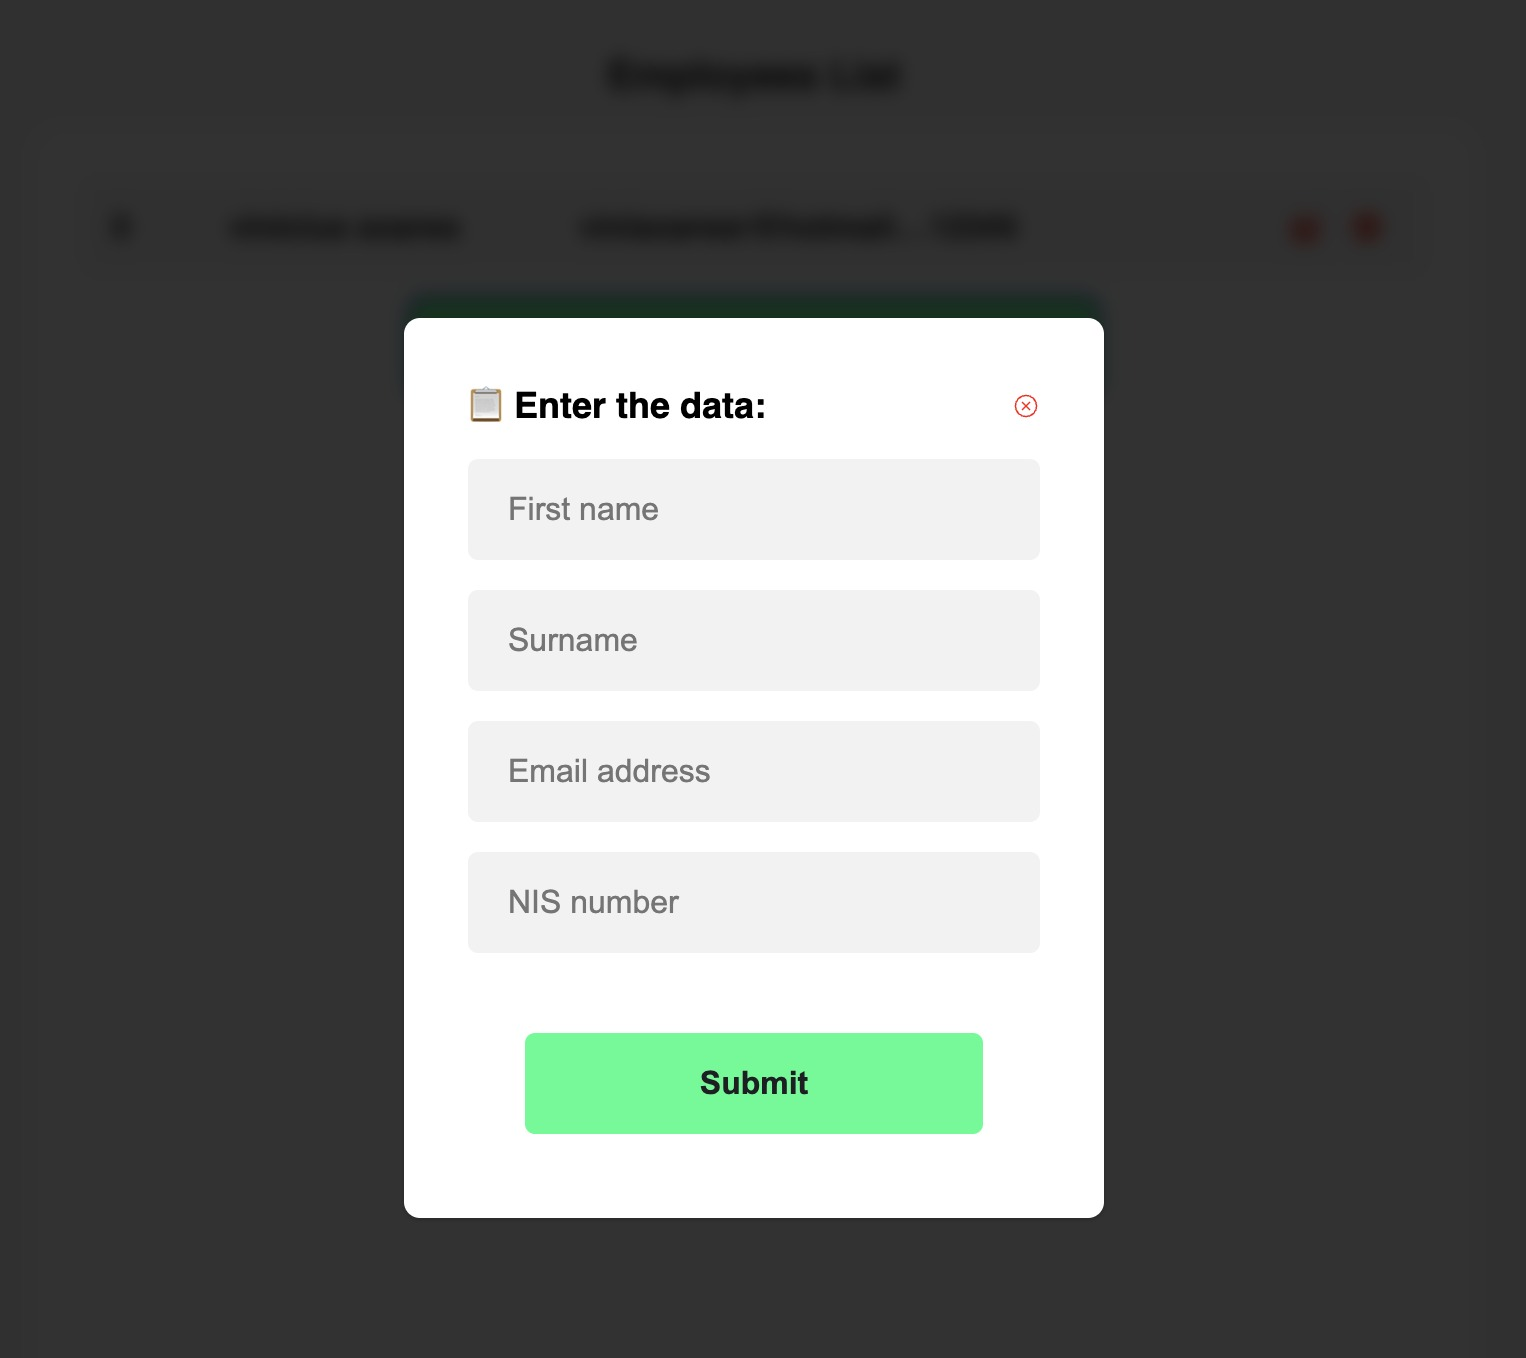
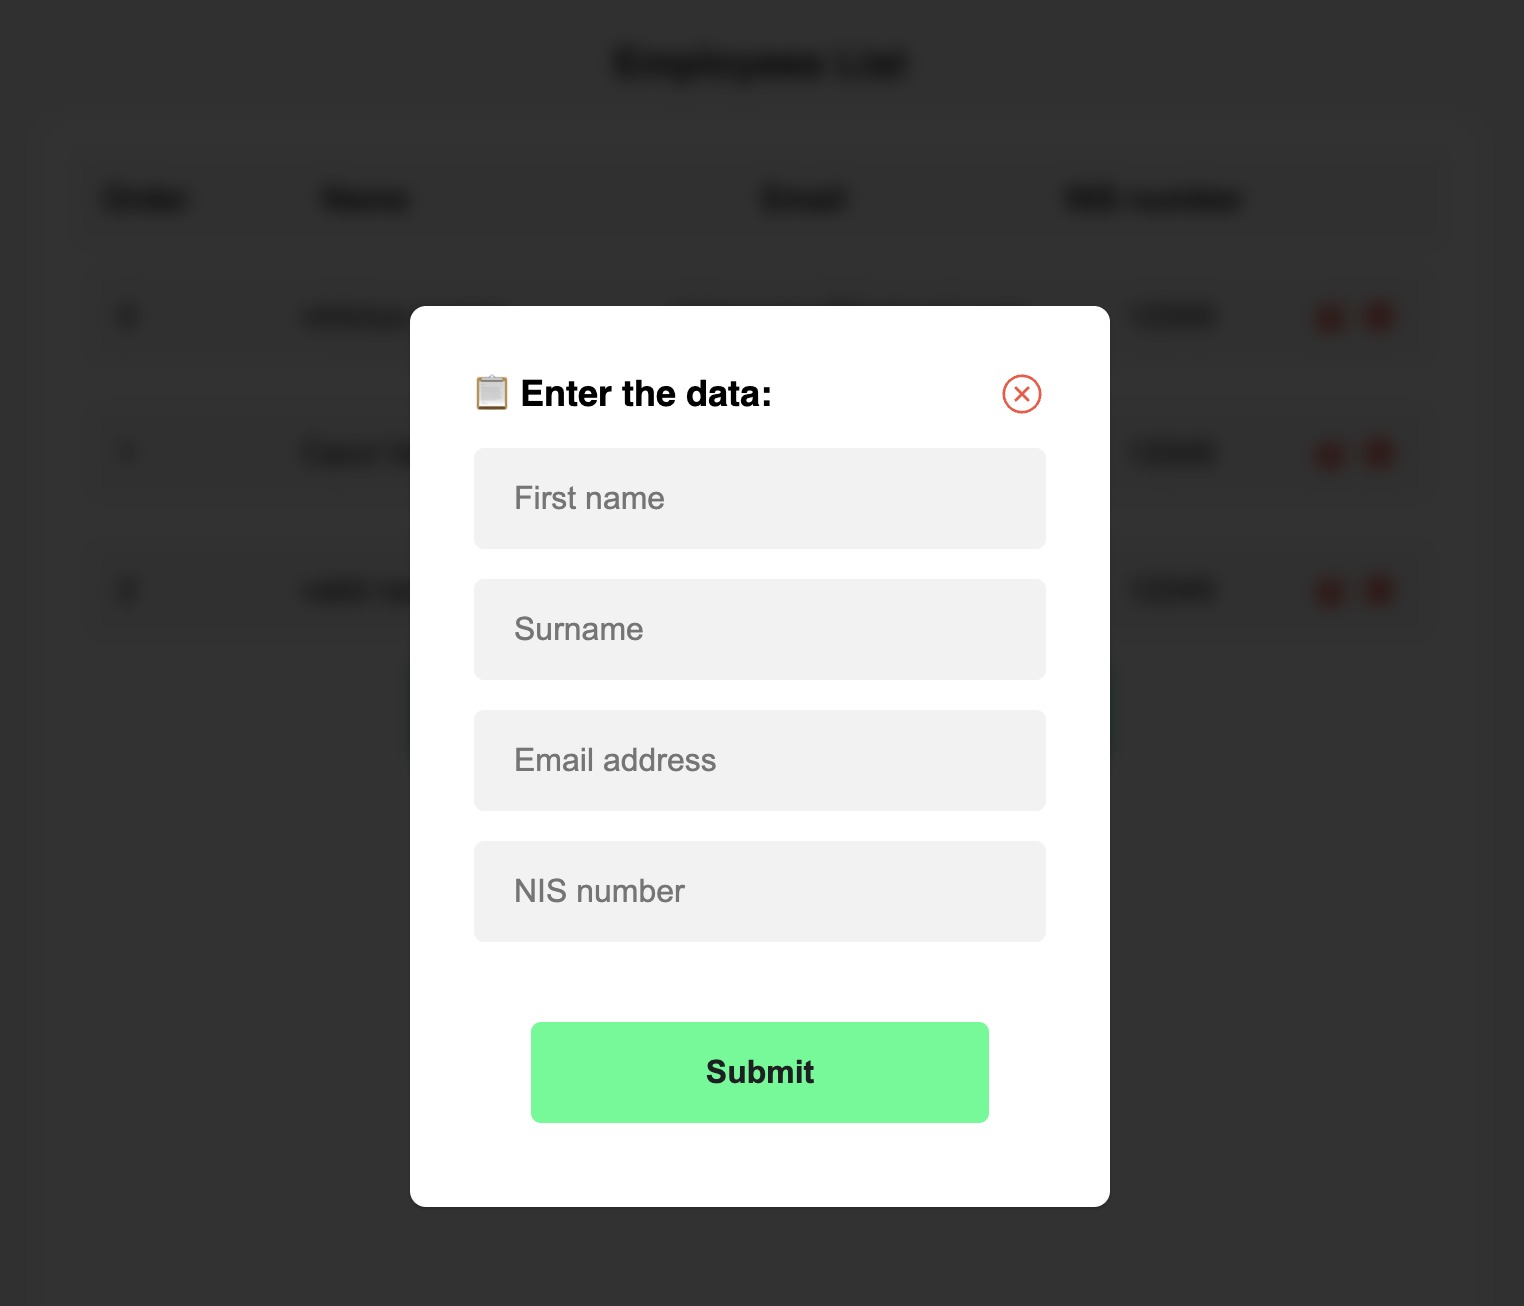
docs: adjusts images

diff --git a/README.md b/README.md
@@ -1,6 +1,7 @@
 # Basic-CRUD
 A Basic CRUD for Employee Registration
 
+<img src="./.github/home-page.jpeg" width="50%" height="50%" alt="app demo">
 <img src="./.github/modal-employee.jpeg" width="50%" height="50%" alt="app demo">
 
 
@@ -31,8 +32,6 @@ A Basic CRUD for Employee Registration
 - [ ] Move backend test to a specific folder
 - [ ] Ensure 100% tests coverage (now is >70% code coverage)
 - [ ] Adjusts frontend configs/.env API URL
-- [ ] Fix close modal button size
-- [ ] Add header to list employee
 
 ## License
 
